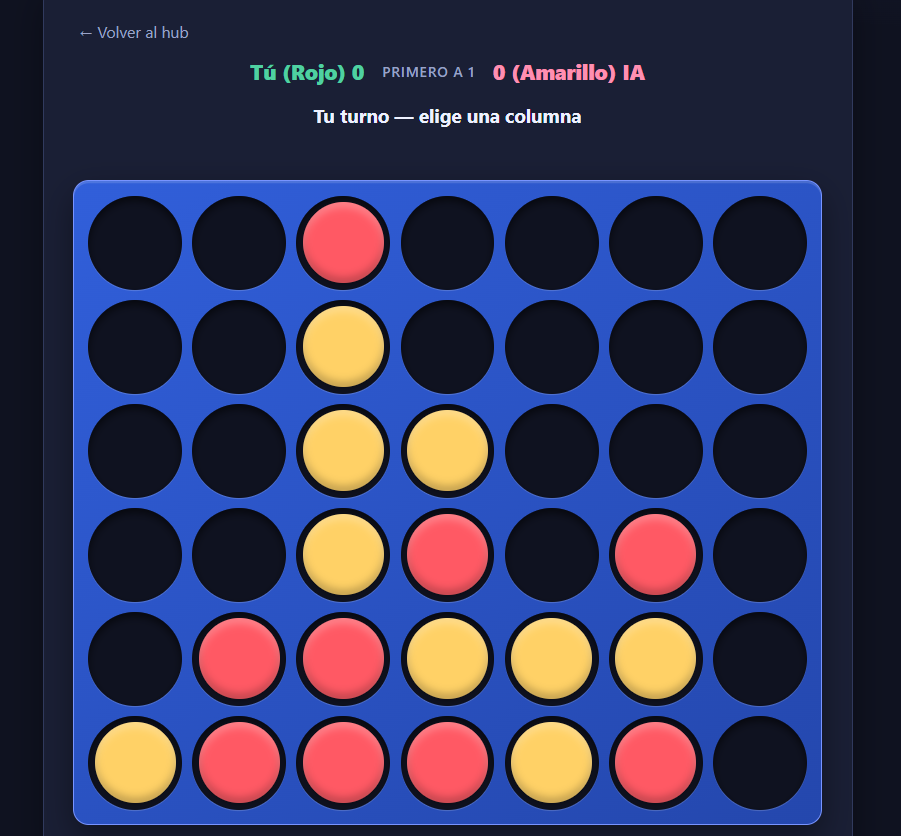
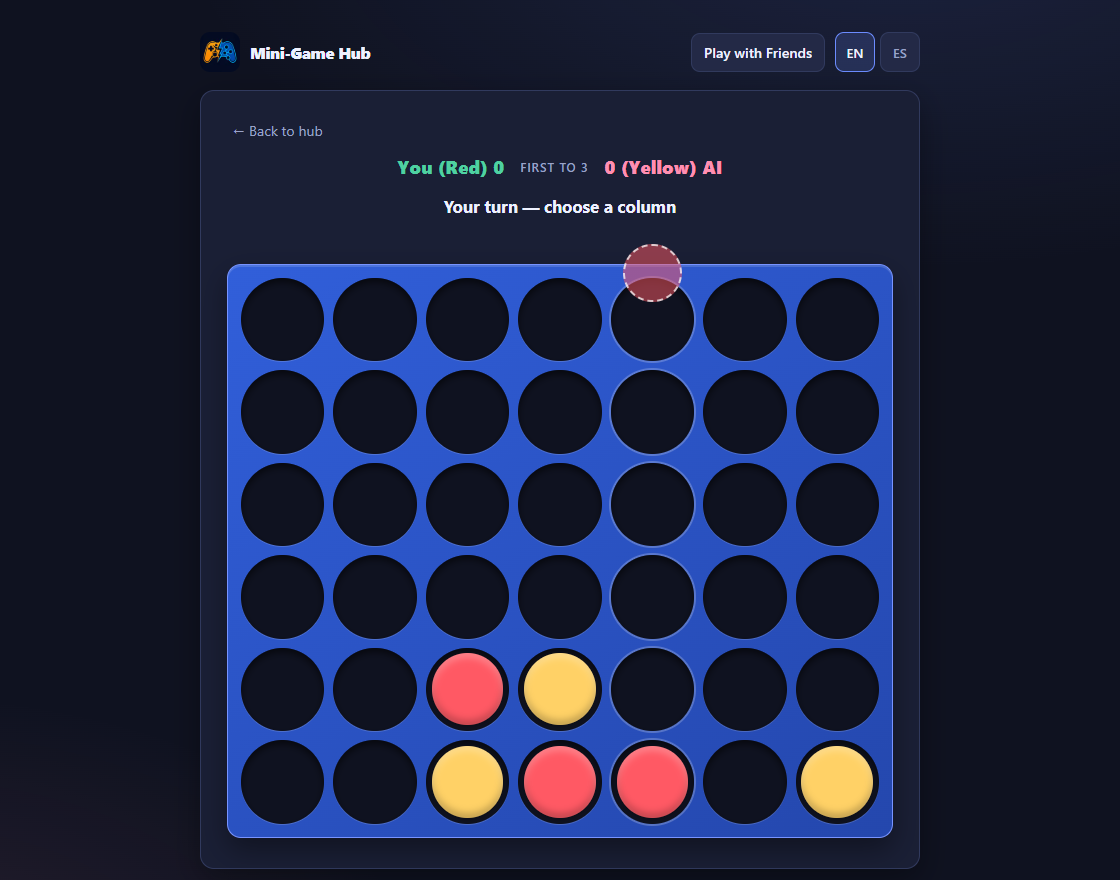
feat(portfolio): refresh Mini-Game Hub showcase

diff --git a/src/content/projects.ts b/src/content/projects.ts
@@ -264,65 +264,67 @@ export const projects: Project[] = [
     images: [
       {
         src: "/projects/minigame-hub/01-home.png",
-        caption: { en: "The hub — 29 mini-games, one scoreboard", es: "El hub — 29 minijuegos, un marcador" },
+        caption: { en: "Catalogue of 29 games with search and filters", es: "Catálogo de 29 juegos con búsqueda y filtros" },
       },
       {
         src: "/projects/minigame-hub/02-connect-four.png",
-        caption: { en: "Connect Four vs a 6-ply minimax opponent", es: "Cuatro en raya contra una IA minimax de 6 niveles" },
+        caption: { en: "Connect Four against a six-ply search", es: "Cuatro en raya contra una IA que busca seis medias jugadas" },
       },
       {
         src: "/projects/minigame-hub/03-higher-or-lower.png",
-        caption: { en: "Higher or Lower — Hard counts the real deck", es: "Mayor o menor — en difícil cuenta la baraja real" },
+        caption: { en: "Higher or Lower with rank counting on Hard", es: "Mayor o menor con conteo de cartas en dificultad alta" },
       },
       {
         src: "/projects/minigame-hub/04-penalty.png",
-        caption: { en: "Penalty Shootout with a pre-commit keeper", es: "Tanda de penaltis con un portero que decide antes" },
+        caption: { en: "Penalty Shootout with an adaptive goalkeeper", es: "Tanda de penaltis con un portero que aprende" },
       },
       {
         src: "/projects/minigame-hub/05-create-room.png",
-        caption: { en: "Create a room and share the code", es: "Crea una sala y comparte el código" },
+        caption: { en: "Choose a multiplayer game and create a room", es: "Elige un juego multijugador y crea una sala" },
       },
       {
         src: "/projects/minigame-hub/06-join-room.png",
-        caption: { en: "A friend joins live with a 6-char code", es: "Un amigo se une en directo con un código de 6 letras" },
+        caption: { en: "Join a friend with a six-character code", es: "Únete a un amigo con un código de seis caracteres" },
+      },
+      {
+        src: "/projects/minigame-hub/07-sliding-hint.png",
+        caption: { en: "An optional move hint in Sliding Puzzle", es: "Una pista opcional en el rompecabezas deslizante" },
       },
     ],
     tagline: {
-      en: "Twenty-nine browser mini-games, most with an algorithmic AI opponent — and 28 playable live against a friend.",
-      es: "Veintinueve minijuegos de navegador, la mayoría con una IA algorítmica — y 28 jugables en directo contra un amigo.",
+      en: "29 browser games with local opponents and hints, and 28 ways to play live with a friend.",
+      es: "29 minijuegos de navegador con rivales y pistas locales, y 28 modos para jugar en directo con un amigo.",
     },
     problem: {
-      en: "Game AI is usually a difficulty slider faking a challenge with inflated stats. Mini-Game Hub asks the opposite: can every 'Hard' opponent be an actual algorithm computing its best move in real time, entirely client-side?",
-      es: "La IA de los juegos suele ser un control de dificultad que finge un reto inflando estadísticas. Mini-Game Hub plantea lo contrario: ¿puede cada rival en 'difícil' ser un algoritmo real que calcula su mejor jugada en tiempo real, íntegramente en el cliente?",
+      en: "Each game gives its opponent different information and time to act. A board game can search ahead, a card game can reason from public draws, and a racing opponent needs to react during each lap.",
+      es: "Cada juego da a su rival información y tiempo distintos para decidir. Un juego de tablero permite anticipar jugadas, uno de cartas puede usar las cartas vistas y un rival de carreras debe reaccionar durante cada vuelta.",
     },
     product: {
-      en: "One bilingual hub over 29 solo games — from minimax and Monte Carlo tree search to XOR nim-sum game theory, A* pathfinding, exact card counting, meld evaluation, blocking dominoes and a solvable sliding puzzle. 28 games also run as live multiplayer rooms: a friend joins with a short code and you play head-to-head, backed by a thin Firebase layer with no server of the project's own.",
-      es: "Un hub bilingüe sobre 29 juegos en solitario — desde minimax y Monte Carlo tree search hasta teoría de juegos con nim-sum (XOR), pathfinding A*, conteo exacto de cartas, evaluación de combinaciones, dominó de bloqueo y rompecabezas deslizante resoluble. 28 juegos funcionan además como salas multijugador en directo: un amigo entra con un código corto y jugáis cara a cara, apoyado en una fina capa de Firebase sin servidor propio.",
+      en: "A searchable bilingual catalogue with 29 solo games. The browser runs each game's own strategy, including a Blackjack coach and an optional puzzle hint. In 28 games, a friend can join a live Firestore room with a short code.",
+      es: "Un catálogo bilingüe con búsqueda y 29 juegos en solitario. El navegador ejecuta la estrategia de cada juego, con ayuda en Blackjack y una pista opcional en el rompecabezas. En 28 juegos puedes invitar a un amigo a jugar en una sala de Firestore con un código corto.",
     },
     highlights: {
       en: [
-        "Difficulty is an algorithm, not a multiplier — minimax + alpha-beta, MCTS (UCT), XOR nim-sum optimal play, A* pathfinding, expectimax, information-gain and exact card counting, each running live in a React render loop.",
-        "Logic isolated from React: every game's pure rules and AI live in framework-free TypeScript modules, unit-testable and reused verbatim by the multiplayer layer.",
-        "Live multiplayer for 28 games via a game-agnostic Cloud Firestore room layer covering five sync patterns (turn-based, simultaneous-move, lockstep, shared-seed score-attack and live-synced duel) — with zero server compute, on Firebase's free Spark plan.",
-        "Access control lives in Firestore Security Rules — seat membership, per-turn ownership and soft room expiry — not in the client.",
-        "Type-checked bilingual dictionary (`satisfies`): an EN/ES key drift is a compile error, not a runtime blank.",
-        "Structured move histories are rendered through the active locale, so gameplay logs switch between English and Spanish while branded board spaces stay unchanged.",
-        "Registry-driven architecture — the hub grid, routes and scoreboard all derive from one game list, so a new game is an additive, three-file change.",
+        "Connect Four uses a faster six-ply search, and Hex Dominion values paths connecting both edges of the board.",
+        "Word Guess evaluates the positions a letter reveals. Diceforge Arena evaluates rerolls and upgrades against the match state.",
+        "Blackjack recommends an action from visible cards. Sliding Puzzle suggests a legal move and lets the player make it.",
+        "Game rules and decision tests are written in TypeScript. Each game loads its own interface when opened.",
+        "28 multiplayer modes share Firebase Authentication and Cloud Firestore rooms, including invitations, rematches and game changes.",
+        "Search, help, controls and move histories are available in English and Spanish.",
       ],
       es: [
-        "La dificultad es un algoritmo, no un multiplicador — minimax + alfa-beta, MCTS (UCT), juego óptimo con nim-sum (XOR), pathfinding A*, expectimax, ganancia de información y conteo exacto de cartas, todo en tiempo real dentro del render de React.",
-        "Lógica aislada de React: las reglas puras y la IA de cada juego viven en módulos de TypeScript sin framework, testables por unidad y reutilizados tal cual por el multijugador.",
-        "Multijugador en directo para 28 juegos mediante una capa de salas en Cloud Firestore agnóstica al juego, con cinco patrones de sincronización (por turnos, movimiento simultáneo, lockstep, score-attack con semilla compartida y duelo sincronizado en vivo) — sin cómputo en servidor, en el plan gratuito Spark de Firebase.",
-        "El control de acceso vive en las Security Rules de Firestore — pertenencia al asiento, propiedad del turno y expiración blanda de la sala — no en el cliente.",
-        "Diccionario bilingüe con comprobación de tipos (`satisfies`): un desajuste de claves EN/ES es un error de compilación, no un hueco en tiempo de ejecución.",
-        "Los historiales de movimientos estructurados se renderizan con el idioma activo, así los logs cambian entre inglés y español mientras las casillas de marca permanecen igual.",
-        "Arquitectura dirigida por registro — la parrilla del hub, las rutas y el marcador derivan de una única lista de juegos, así que añadir un juego es un cambio aditivo de tres ficheros.",
+        "Cuatro en raya usa una búsqueda de seis medias jugadas más rápida y Hex Dominion valora las rutas que conectan ambos bordes del tablero.",
+        "Adivina la palabra evalúa las posiciones que revela cada letra. Diceforge Arena valora las tiradas y las mejoras según el estado de la partida.",
+        "Blackjack recomienda una acción con las cartas visibles. El rompecabezas sugiere un movimiento legal que el jugador puede ejecutar.",
+        "Las reglas y las pruebas de decisión están escritas en TypeScript. Cada juego carga su interfaz al abrirse.",
+        "Los 28 modos multijugador comparten autenticación de Firebase y salas en Cloud Firestore con invitaciones, revanchas y cambios de juego.",
+        "La búsqueda, la ayuda, los controles y el historial de jugadas están disponibles en inglés y español.",
       ],
     },
     metrics: [
       { en: "29 mini-games", es: "29 minijuegos" },
       { en: "28 live multiplayer", es: "28 con multijugador" },
-      { en: "6+ real AI algorithms", es: "6+ algoritmos de IA reales" },
+      { en: "29 AI and hint test cases", es: "29 casos de prueba de IA y pistas" },
       { en: "EN · ES bilingual", es: "Bilingüe EN · ES" },
     ],
   },

diff --git a/README.md b/README.md
@@ -28,6 +28,7 @@ Each entry has a screenshot gallery, a problem statement and engineering highlig
 | Project | What it is | Stack |
 | --- | --- | --- |
 | [Planora](https://github.com/JoanOliver04/planora) | Planner in production for tasks, habits, schedules, events and Focus, with mobile Web Push — built from scratch and still updated | Next.js · Supabase · PWA |
+| [Mini-Game Hub](https://github.com/JoanOliver04/minigame-hub) | 29 browser games with local AI and hints, plus 28 live multiplayer modes | Next.js · TypeScript · Firebase |
 | [Data Fuel](https://github.com/JoanOliver04/Data_Fuel) | Find the cheapest fill-up by **total cost** (fuel + the drive), with explainable ML price forecasts — 690 tests, 86% coverage | FastAPI · React · scikit-learn · SHAP |
 | [FitPrompt](https://github.com/JoanOliver04/FitPrompt) | Conversational AI coach that turns a real user profile into training and nutrition plans — team project, 2 developers | Next.js · Prisma · Groq / Llama 3.3 · Stripe |
 | [Data Detective](https://github.com/JoanOliver04/Data_Detective) | Quasi-experimental measurement of how mass events move Valencia's air quality — 123 tests, 90% coverage, CI | Python · pandas · Streamlit |
